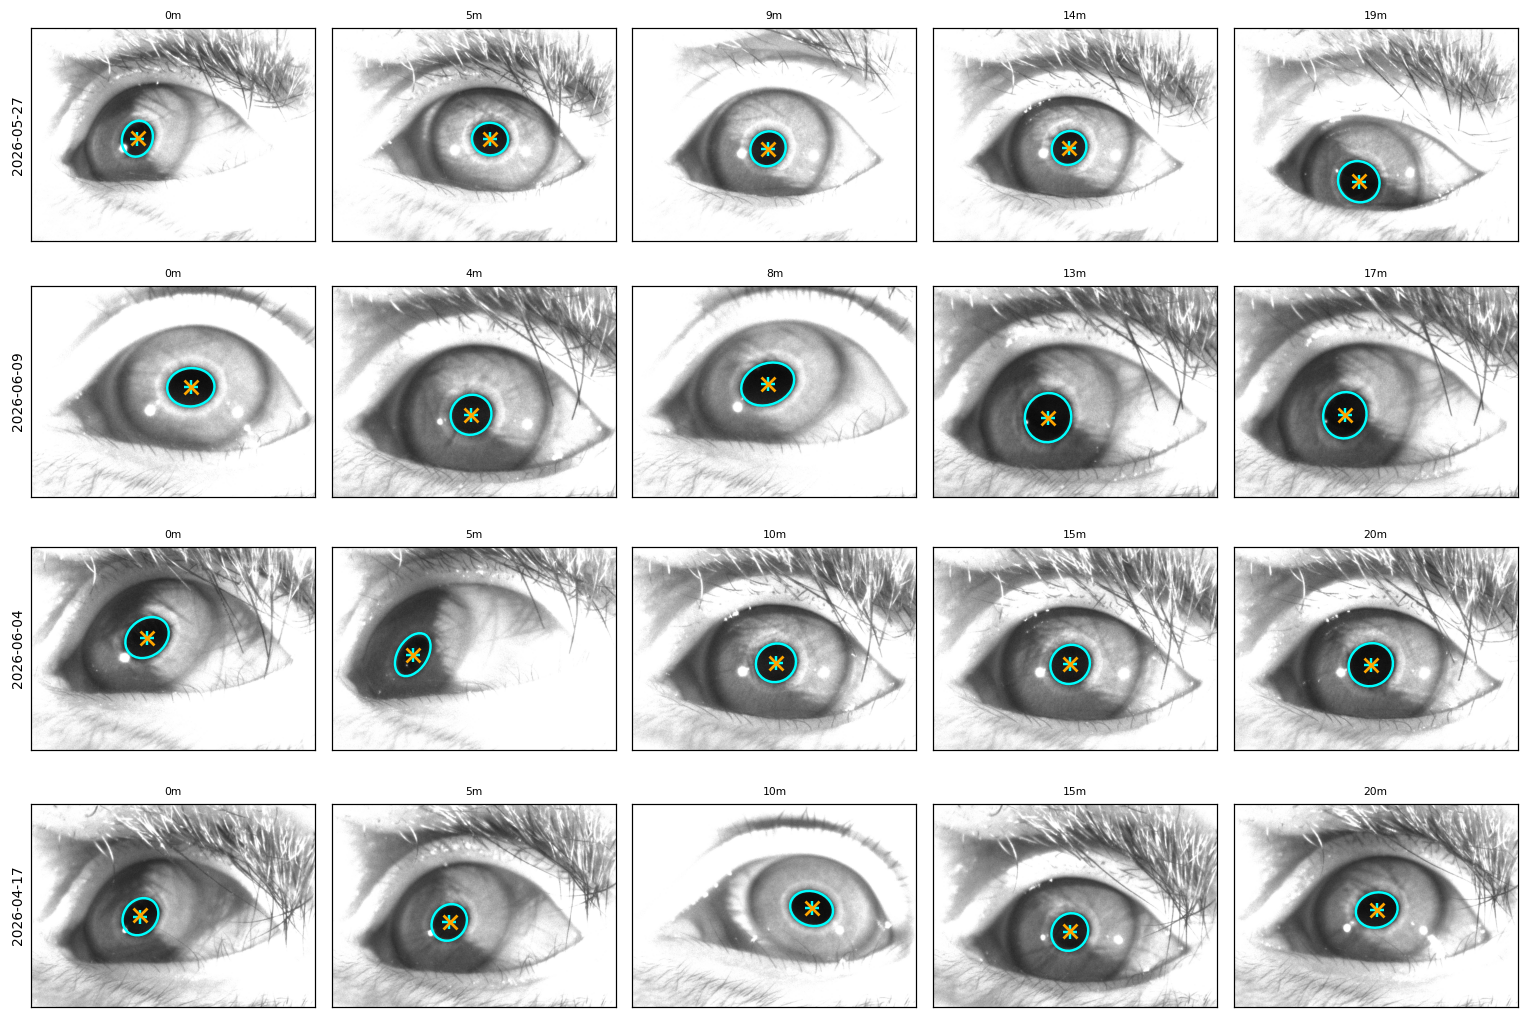
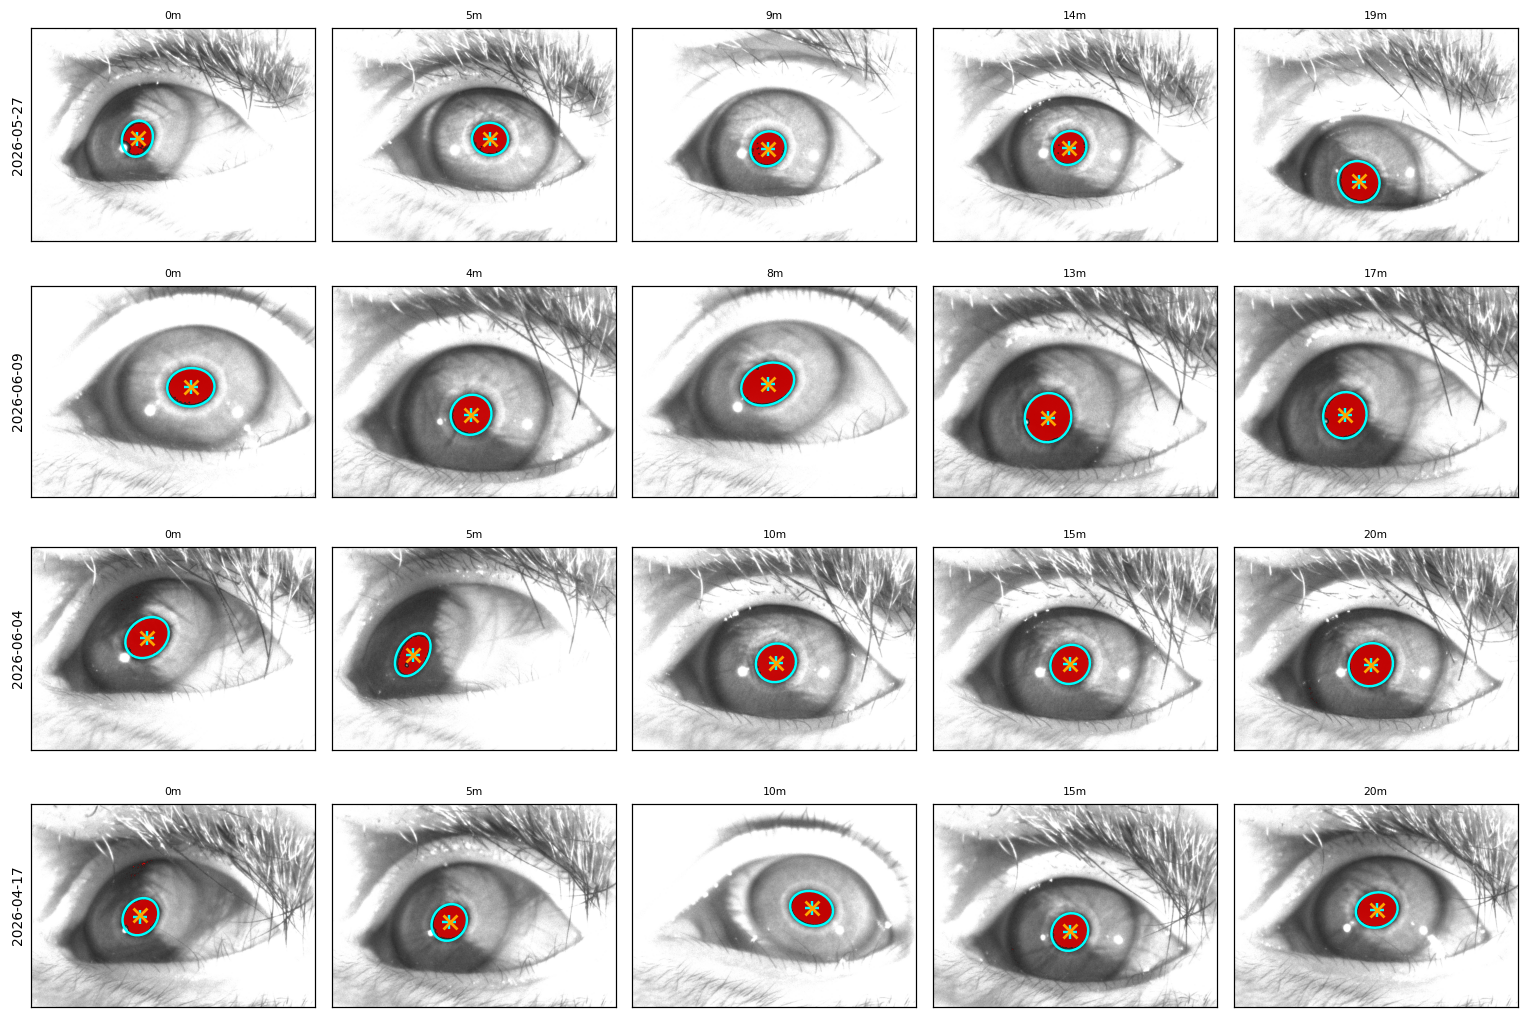
Visualize online/offline discrepancies (not claim equality); highlight contributing pixels
- online_mask(): the pixels (band 0-50, eroded) that feed the online centroid;
  get_pupil_online refactored to use it
- show_tracking_examples: overlay contributing pixels (red) on each example frame
- show_discrepancy_examples(): highest |dx| and |dy| frames with contributing
  pixels highlighted + ellipse/centroid markers -> figures/discrepancy_examples.png
- REPORT.md: soften Result 1/3 and conclusion to describe discrepancies rather
  than claim no difference; the horizontal shift is present in BOTH trackers;
  embed discrepancy figure; note large discrepancies are near-closed-eye frames

diff --git a/eyevideo.py b/eyevideo.py
@@ -165,15 +165,26 @@ def detect_pupil_ellipse(g, min_circ=0.45):
         return None
     return cv2.fitEllipse(best)
 
-def get_pupil_online(image, low_threshold=0.0, high_threshold=50.0):
-    """Online tracker: centroid of all dark pixels in (low, high], after a 3x3 erode."""
+def online_mask(image, low_threshold=0.0, high_threshold=50.0):
+    """Binary mask of the pixels that contribute to the online centroid:
+    intensity in (low, high] after a 3x3 erosion."""
     low = cv2.threshold(image, low_threshold, 255, cv2.THRESH_BINARY)[1]
     high = cv2.threshold(image, high_threshold, 255, cv2.THRESH_BINARY_INV)[1]
-    m = cv2.erode(cv2.bitwise_and(low, high), np.ones((3, 3), np.uint8), 1)
-    mo = cv2.moments(m)
+    return cv2.erode(cv2.bitwise_and(low, high), np.ones((3, 3), np.uint8), 1)
+
+def get_pupil_online(image, low_threshold=0.0, high_threshold=50.0):
+    """Online tracker: centroid of all dark pixels in (low, high], after a 3x3 erode."""
+    mo = cv2.moments(online_mask(image, low_threshold, high_threshold))
     if mo["m00"] == 0:
         return None, None
     return mo["m10"]/mo["m00"], mo["m01"]/mo["m00"]
+
+def _mask_overlay_rgba(mask, color=(1.0, 0.0, 0.0), alpha=0.75):
+    """RGBA image that paints mask>0 pixels in `color` at `alpha`, transparent elsewhere."""
+    rgba = np.zeros((*mask.shape, 4), float)
+    sel = mask > 0
+    rgba[sel, 0], rgba[sel, 1], rgba[sel, 2], rgba[sel, 3] = (*color, alpha)
+    return rgba
 
 CACHE_DIR = ".track_cache"
 
@@ -401,8 +412,9 @@ def tracker_agreement(dates, n=120, high=50.0):
         mdy = np.median(np.abs(r["ell"][:, 1] - r["onl"][:, 1]))
         print(f"{d}: corr x={rx:.3f} y={ry:.3f}  median|Δx|={mdx:.1f}px |Δy|={mdy:.1f}px  n={r['n']}")
 
-def show_tracking_examples(dates, k=5, high=50.0, search=40):
-    """Rows = dates, cols = k example open-eye frames with both trackers overlaid."""
+def show_tracking_examples(dates, k=5, high=50.0, search=40, show_mask=True):
+    """Rows = dates, cols = k example open-eye frames. Overlays the online centroid-contributing
+    pixels (red, `show_mask`), the robust ellipse (cyan outline + center), and the online centroid (orange x)."""
     if isinstance(dates, str): dates = [dates]
     fig, axes = plt.subplots(len(dates), k, figsize=(k*2.8, len(dates)*2.4), squeeze=False)
     for r, d in enumerate(dates):
@@ -419,12 +431,50 @@ def show_tracking_examples(dates, k=5, high=50.0, search=40):
             if c >= len(found): ax.axis("off"); continue
             t, g, e = found[c]; (cx, cy), (MA, ma), ang = e
             ax.imshow(g, cmap="gray", vmin=0, vmax=255)
+            if show_mask: ax.imshow(_mask_overlay_rgba(online_mask(g, 0.0, high)))
             ax.add_patch(Ellipse((cx, cy), MA, ma, angle=ang, fill=False, ec=C_ROBUST, lw=1.6))
             ax.plot(cx, cy, "+", c=C_ROBUST, ms=9, mew=1.6)
             ox, oy = get_pupil_online(g, 0.0, high)
             if ox is not None: ax.plot(ox, oy, "x", c=C_ONLINE, ms=9, mew=1.8)
             if c == 0: ax.set_ylabel(d, fontsize=9)
             ax.set_title(f"{t/60:.0f}m", fontsize=7)
+    plt.tight_layout(); plt.show()
+
+def show_discrepancy_examples(dates, k=8, n=1000, high=50.0, by="both", cols=4):
+    """Frames with the largest ellipse-vs-online discrepancy, with the online centroid-contributing
+    pixels (red) highlighted plus the ellipse (cyan) and online centroid (orange x). `by`='x'|'y'|'both'
+    selects/ranks the discrepancy axis. Uses cached tracks (same n) to locate the frames."""
+    if isinstance(dates, str): dates = [dates]
+    rec = []   # (sdir, t, dx, dy)
+    for d in dates:
+        sdir = session_for_date(d); r = track_both(sdir, n, high)
+        if r["n"] == 0: continue
+        dx = r["onl"][:, 0] - r["ell"][:, 0]; dy = r["onl"][:, 1] - r["ell"][:, 1]
+        for i in range(r["n"]):
+            rec.append((sdir, float(r["t"][i]), float(dx[i]), float(dy[i])))
+    if by == "both":
+        kx = k // 2
+        picks = ([("x", z) for z in sorted(rec, key=lambda z: -abs(z[2]))[:kx]] +
+                 [("y", z) for z in sorted(rec, key=lambda z: -abs(z[3]))[:k - kx]])
+    else:
+        j = 2 if by == "x" else 3
+        picks = [(by, z) for z in sorted(rec, key=lambda z: -abs(z[j]))[:k]]
+    rows = int(np.ceil(len(picks) / cols))
+    fig, axes = plt.subplots(rows, cols, figsize=(cols*3.0, rows*2.7), squeeze=False)
+    for ax, (axis, (sdir, t, dx, dy)) in zip(axes.ravel(), picks):
+        g = grab_frame(sdir, t); ax.set_xticks([]); ax.set_yticks([])
+        ax.imshow(g, cmap="gray", vmin=0, vmax=255)
+        ax.imshow(_mask_overlay_rgba(online_mask(g, 0.0, high)))
+        e = detect_pupil_ellipse(g)
+        if e is not None:
+            (cx, cy), (MA, ma), ang = e
+            ax.add_patch(Ellipse((cx, cy), MA, ma, angle=ang, fill=False, ec=C_ROBUST, lw=1.4))
+            ax.plot(cx, cy, "+", c=C_ROBUST, ms=8, mew=1.4)
+        ox, oy = get_pupil_online(g, 0.0, high)
+        if ox is not None: ax.plot(ox, oy, "x", c=C_ONLINE, ms=8, mew=1.6)
+        ax.set_title(f"{os.path.basename(sdir)[:10]}  |{axis}|:  dx={dx:+.0f} dy={dy:+.0f}px", fontsize=7)
+    for ax in axes.ravel()[len(picks):]:
+        ax.axis("off")
     plt.tight_layout(); plt.show()
 
 def pupil_cloud_eyeframe(date, n=120, high=50.0):

diff --git a/make_report.py b/make_report.py
@@ -48,6 +48,11 @@ log("compare_agreement done")
 ev.tracker_agreement(centered + biased, n=N, high=HIGH)
 plt.savefig(f"{FIG}/tracker_agreement.png", dpi=110, bbox_inches="tight"); plt.close("all")
 
+# 5b) highest-discrepancy frames with contributing pixels highlighted
+ev.show_discrepancy_examples(centered + biased, k=8, n=N, high=HIGH, by="both")
+plt.savefig(f"{FIG}/discrepancy_examples.png", dpi=110, bbox_inches="tight"); plt.close("all")
+log("discrepancy_examples figure done")
+
 allx_e, allx_o, ally_e, ally_o, dxs, dys = [], [], [], [], [], []
 for d in centered + biased:
     r = ev.track_both(ev.session_for_date(d), N, HIGH)

diff --git a/REPORT.md b/REPORT.md
@@ -23,11 +23,11 @@ Four example sessions (two centered, two biased): mean eye image, clicked landma
 
 ## Detection quality
 
-Example frames from four sessions (two centered, two biased): robust ellipse (cyan outline + center `+`) and online centroid (orange `×`).
+Example frames from four sessions (two centered, two biased): red = pixels that pass the online threshold and contribute to the centroid; robust ellipse (cyan outline + center `+`); online centroid (orange `×`). On open-eye frames the contributing pixels are the pupil, and the two estimates coincide.
 
 ![Example frames with pupil ellipse and centroids](figures/tracking_examples.png)
 
-## Result 1 — the two trackers agree (detection is faithful)
+## Result 1 — offline (robust) vs online tracker: correlation and discrepancies
 
 Pooled over all 14 sessions (per-frame, both trackers on identical frames):
 
@@ -35,9 +35,13 @@ Pooled over all 14 sessions (per-frame, both trackers on identical frames):
 - median |online − robust|: `x` = 0.88 px, `y` = 0.67 px
 - per-session correlations 0.98–1.00; largest per-session median |Δx| = 3.9 px.
 
-The online centroid tracks the same point as the shape-based ellipse.
+The two estimates are highly correlated, with a per-frame discrepancy that is usually sub-pixel to a few pixels but occasionally large.
 
 ![Robust vs online agreement](figures/tracker_agreement.png)
+
+The frames with the largest discrepancy are shown below (top row: largest |Δx|; bottom row: largest |Δy|). Red = the pixels that pass the online threshold and contribute to the centroid; cyan = robust ellipse + center; orange × = online centroid. These are near-closed-eye frames: the robust ellipse mis-locks onto a small dark region (often up near the brow/lash shadow), while the online centroid is computed from the few dark pixels remaining near the eye. Large discrepancies are concentrated on these low-visibility frames rather than on open-eye frames.
+
+![Highest-discrepancy frames with contributing pixels](figures/discrepancy_examples.png)
 
 ## Result 2 — horizontal eye-frame position differs between conditions; vertical does not
 
@@ -56,14 +60,14 @@ In the histograms below, black = centered, red = biased; the dotted line is the 
 
 ![Eye-frame position histograms](figures/eyeframe_histograms.png)
 
-## Result 3 — the tracker discrepancy does not differ between conditions
+## Result 3 — tracker discrepancy by condition
 
-Per-session median (online − robust), compared between conditions (`compare_agreement`):
+Per-session median (online − robust), by condition (`compare_agreement`):
 
-- Δx: centered mean −0.71 px, biased −1.39 px, Welch p = 0.360
-- Δy: centered mean −0.25 px, biased −0.35 px, Welch p = 0.406
+- Δx: centered mean −0.71 px, biased −1.39 px (Welch p = 0.360)
+- Δy: centered mean −0.25 px, biased −0.35 px (Welch p = 0.406)
 
-The online-vs-robust discrepancy is at most a few pixels and is statistically indistinguishable between conditions, so it cannot account for the horizontal difference in Result 2.
+The discrepancy is a few pixels in both conditions and does not track the ~0.04 eye-frame (`u` ≈ tens of px) difference seen in Result 2.
 
 ![Tracker discrepancy by condition](figures/tracker_discrepancy.png)
 
@@ -101,7 +105,7 @@ The between-condition difference appears in the pupil position referenced to the
 
 ## Conclusion
 
-Horizontal pupil position in eye-based coordinates is shifted on biased days relative to centered days (robust t = 3.01, p = 0.012; online t = 2.92, p = 0.014); vertical position is unchanged. The online and offline trackers give the same result (per-frame r = 0.99; the online−offline discrepancy does not differ between conditions, p = 0.36). The day-to-day difference is therefore a **real shift in horizontal pupil position within the eye, not an artifact of the online tracker**. Provided the gaze calibration is accurate, the estimated monitor gaze coordinates are correct.
+Horizontal pupil position in eye-based coordinates is shifted on biased days relative to centered days (robust t = 3.01, p = 0.012; online t = 2.92, p = 0.014); vertical position is unchanged. The shift is present in **both** the offline (robust ellipse) and online (threshold-centroid) estimates, which are highly correlated (per-frame r = 0.99); the two estimates diverge mainly on near-closed-eye frames (Result 1), not on the open-eye frames that dominate each session's mean. The day-to-day difference therefore reflects a **real shift in horizontal pupil position within the eye**, seen regardless of which tracker is used, rather than something specific to the online pupil-detection step. Provided the gaze calibration is accurate, the estimated monitor gaze coordinates reflect this real shift.
 
 ## Limitations
 